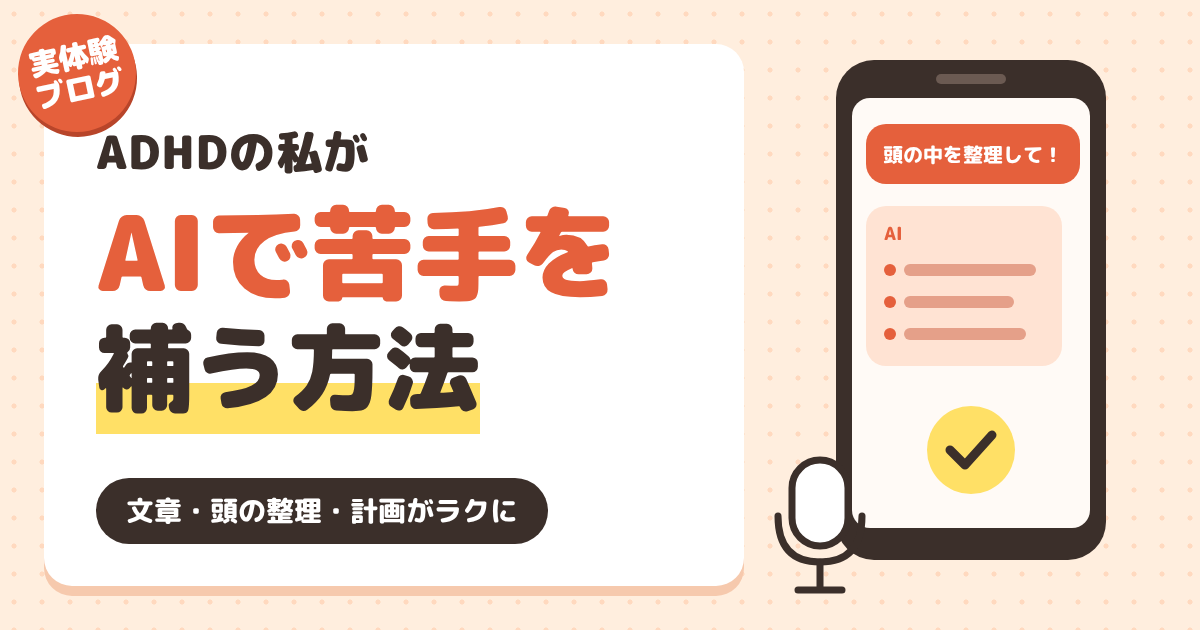
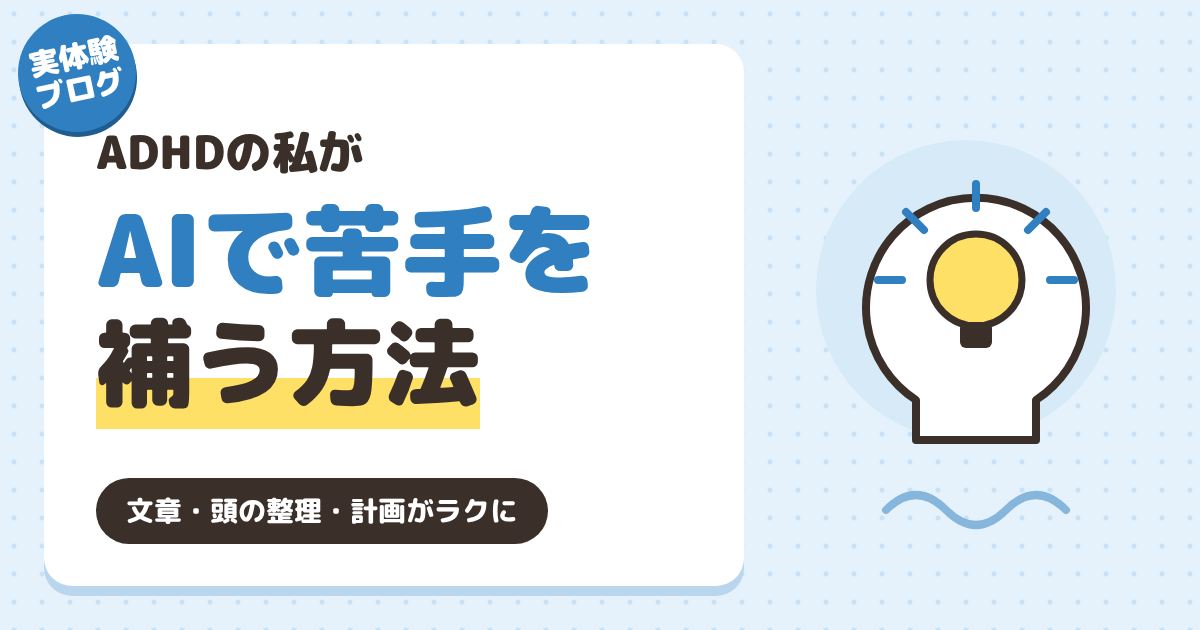
アイキャッチの共通テンプレート（カテゴリ色つき）を追加し、投稿317の画像を作り直し
Claude-Session: https://claude.ai/code/session_01AbwgezYxuzkhNMxoZh4PnK

diff --git a/ブログジャンル選定/eyecatch_tool/make_eyecatch.py b/ブログジャンル選定/eyecatch_tool/make_eyecatch.py
@@ -1,0 +1,87 @@
+"""ブログ共通デザインのアイキャッチ画像（1200x630）を作る。
+使い方: python3 make_eyecatch.py specs.json 作業フォルダ
+specs.json: [{"out": 出力png, "cat": love|mind|family|work|body|life, "l1": 上の一言, "l2": 大きい色文字, "l3": マーカー文字, "pill": 下の帯}]
+"""
+import json
+import subprocess
+import sys
+
+from PIL import Image
+
+CHROME = "/opt/pw-browsers/chromium-1194/chrome-linux/chrome"
+
+THEMES = {
+    "love":   dict(bg="#ffeede", dot="#ffd9bf", accent="#e5603c", shadow="#f6c9ad", badge_sh="#b8452a", soft="#ffe3d3", soft2="#e5a089"),
+    "mind":   dict(bg="#e6f2fb", dot="#c9e2f5", accent="#2f7fc1", shadow="#b9d6ee", badge_sh="#1f5d91", soft="#d6eaf8", soft2="#86b6dc"),
+    "family": dict(bg="#e9f5e6", dot="#cfe8c8", accent="#3f9a52", shadow="#bfdcb8", badge_sh="#2c7139", soft="#d8eed3", soft2="#8cc49a"),
+    "work":   dict(bg="#e8ebf3", dot="#cfd5e6", accent="#2c3e73", shadow="#c3cadf", badge_sh="#1c2a52", soft="#d9deee", soft2="#8e9cc6"),
+    "body":   dict(bg="#fdeef2", dot="#f8d6e0", accent="#d0547a", shadow="#f1c4d2", badge_sh="#a03a5a", soft="#fadbe5", soft2="#e59ab2"),
+    "life":   dict(bg="#fff6dc", dot="#fbe7a8", accent="#d9910b", shadow="#f2dca0", badge_sh="#a86d05", soft="#fdefc2", soft2="#e9c470"),
+}
+
+ILL = {
+    "love": '''<rect x="70" y="20" width="270" height="500" rx="38" fill="#3b2f2a"/><rect x="86" y="58" width="238" height="430" rx="18" fill="#fffaf6"/>
+<rect x="108" y="86" width="200" height="60" rx="20" fill="{accent}"/><rect x="128" y="166" width="180" height="60" rx="20" fill="{accent}"/>
+<rect x="102" y="262" width="104" height="52" rx="20" fill="{soft}"/><circle cx="130" cy="288" r="7" fill="{soft2}"/><circle cx="154" cy="288" r="7" fill="{soft2}"/><circle cx="178" cy="288" r="7" fill="{soft2}"/>
+<path d="M205 440 c-30 -20 -48 -36 -48 -58 a24 24 0 0 1 48 -6 a24 24 0 0 1 48 6 c0 22 -18 38 -48 58z" fill="{accent}"/>''',
+    "mind": '''<circle cx="200" cy="250" r="150" fill="{soft}"/>
+<path d="M150 400 v-40 a110 110 0 1 1 120 0 v40z" fill="#fff" stroke="#3b2f2a" stroke-width="8" stroke-linejoin="round"/>
+<circle cx="210" cy="240" r="46" fill="#ffe066" stroke="#3b2f2a" stroke-width="7"/><rect x="194" y="282" width="32" height="26" rx="6" fill="#3b2f2a"/>
+<path d="M210 168 v-24 M262 190 l18 -18 M158 190 l-18 -18 M284 240 h24 M136 240 h-24" stroke="{accent}" stroke-width="8" stroke-linecap="round"/>
+<path d="M120 470 q30 -30 60 0 t60 0 t60 0" fill="none" stroke="{soft2}" stroke-width="8" stroke-linecap="round"/>''',
+    "family": '''<circle cx="200" cy="290" r="160" fill="{soft}"/>
+<path d="M78 420 a52 76 0 0 1 104 0z" fill="{accent}" stroke="#3b2f2a" stroke-width="7"/><circle cx="130" cy="300" r="36" fill="#fff" stroke="#3b2f2a" stroke-width="7"/>
+<path d="M218 420 a52 76 0 0 1 104 0z" fill="{soft2}" stroke="#3b2f2a" stroke-width="7"/><circle cx="270" cy="300" r="36" fill="#fff" stroke="#3b2f2a" stroke-width="7"/>
+<path d="M160 420 a40 54 0 0 1 80 0z" fill="#ffe066" stroke="#3b2f2a" stroke-width="7"/><circle cx="200" cy="344" r="27" fill="#fff" stroke="#3b2f2a" stroke-width="7"/>
+<path d="M200 220 c-24 -16 -38 -29 -38 -46 a19 19 0 0 1 38 -4 a19 19 0 0 1 38 4 c0 17 -14 30 -38 46z" fill="{accent}"/>
+<path d="M50 424 h300" stroke="#3b2f2a" stroke-width="7" stroke-linecap="round"/>''',
+    "work": '''<circle cx="200" cy="260" r="160" fill="{soft}"/>
+<rect x="70" y="200" width="260" height="170" rx="16" fill="#3b2f2a"/><rect x="86" y="216" width="228" height="138" rx="8" fill="#fff"/>
+<path d="M40 380 h320 l-24 30 h-272z" fill="#6b5a52"/>
+<rect x="106" y="240" width="120" height="12" rx="6" fill="{soft2}"/><rect x="106" y="266" width="170" height="12" rx="6" fill="{soft2}"/><rect x="106" y="292" width="140" height="12" rx="6" fill="{soft2}"/>
+<rect x="230" y="70" width="120" height="150" rx="14" fill="#fff" stroke="#3b2f2a" stroke-width="7"/><rect x="262" y="58" width="56" height="24" rx="8" fill="{accent}"/>
+<path d="M252 118 l12 12 l22 -24 M252 168 l12 12 l22 -24" fill="none" stroke="{accent}" stroke-width="7" stroke-linecap="round" stroke-linejoin="round"/>
+<circle cx="110" cy="470" r="40" fill="#ffe066"/><path d="M90 470 l14 14 l26 -28" fill="none" stroke="#3b2f2a" stroke-width="8" stroke-linecap="round" stroke-linejoin="round"/>''',
+}
+ILL["body"] = ILL["mind"]
+ILL["life"] = ILL["family"]
+
+
+def html(cat, l1, l2, l3, pill, badge="実体験<br>ブログ"):
+    t = THEMES[cat]
+    ill = ILL[cat].format(**t)
+    return f'''<!doctype html><html><head><meta charset="utf-8">
+<link href="https://fonts.googleapis.com/css2?family=M+PLUS+Rounded+1c:wght@500;800;900&display=block" rel="stylesheet">
+<style>
+html,body{{margin:0;width:1200px;height:630px;overflow:hidden}}
+body{{font-family:"M PLUS Rounded 1c",sans-serif;position:relative;color:#3b2f2a;background-color:{t['bg']};background-image:radial-gradient({t['dot']} 2.5px,transparent 2.6px);background-size:28px 28px}}
+.card{{position:absolute;left:44px;top:44px;width:700px;height:542px;background:#fff;border-radius:28px;box-shadow:0 10px 0 {t['shadow']}}}
+.badge{{position:absolute;left:18px;top:14px;width:118px;height:118px;border-radius:50%;background:{t['accent']};color:#fff;font-weight:900;font-size:30px;display:flex;align-items:center;justify-content:center;transform:rotate(-12deg);box-shadow:0 5px 0 {t['badge_sh']};z-index:3;line-height:1.1;text-align:center}}
+.t{{position:absolute;left:96px;top:118px;font-weight:900;width:620px}}
+.l1{{font-size:46px;white-space:nowrap}}
+.l2{{font-size:100px;color:{t['accent']};line-height:1.15;margin-top:6px;white-space:nowrap}}
+.l3{{font-size:96px;line-height:1.15;white-space:nowrap}}
+.l3 span{{background:linear-gradient(transparent 62%,#ffe066 62%)}}
+.pill{{position:absolute;left:96px;top:478px;background:#3b2f2a;color:#fff;font-weight:800;font-size:28px;padding:12px 30px;border-radius:40px;white-space:nowrap}}
+.ill{{position:absolute;right:34px;top:40px}}
+</style></head><body><div class="card"></div><div class="badge">{badge}</div>
+<div class="t"><div class="l1">{l1}</div><div class="l2">{l2}</div><div class="l3"><span>{l3}</span></div></div>
+<div class="pill">{pill}</div><svg class="ill" width="400" height="560" viewBox="0 0 400 560">{ill}</svg></body></html>'''
+
+
+def render(spec, out, work):
+    h = f"{work}/tmp.html"
+    open(h, "w", encoding="utf-8").write(html(**spec))
+    subprocess.run([CHROME, "--headless=new", "--no-sandbox", "--disable-gpu", "--hide-scrollbars",
+                    "--window-size=1200,800", "--virtual-time-budget=8000",
+                    f"--screenshot={work}/tmp.png", "file://" + h], capture_output=True, timeout=90)
+    # ヘッドレスは表示領域が窓より短いので、高めに撮ってから切り出す
+    Image.open(f"{work}/tmp.png").crop((0, 0, 1200, 630)).convert("RGB").save(out)
+
+
+if __name__ == "__main__":
+    specs = json.load(open(sys.argv[1], encoding="utf-8"))
+    for s in specs:
+        out = s.pop("out")
+        render(s, out, sys.argv[2])
+        print("wrote", out)

diff --git a/ブログジャンル選定/作業メモ_ブログ改善.md b/ブログジャンル選定/作業メモ_ブログ改善.md
@@ -12,7 +12,7 @@
 | 10/22 | 投稿295・243の装飾をCocoon標準にそろえた／Sample Pageを非公開、Hello world!をゴミ箱へ／カテゴリを6つに再編して全37記事を振り分け（変更前は backup/categories_before_2026-10.json） |
 | 10/9〜 | 投稿243「シングルマザーとの恋愛が難しいと感じた理由」を改稿して反映（元の本文は backup/post_243_original.html） |
 | 11/1 | 新記事「マッチングアプリで2回目のデートに続かない…」を下書き作成（投稿311、カテゴリ：恋愛・婚活、アイキャッチ eyecatch_2kaime-tsuzukanai.png／メディアID 315。旧版314は未使用） |
-| 11/3 | 新記事「ADHDの私がAIで『苦手』を補っている方法」を下書き作成（投稿317、カテゴリ：ADHD・不安症、アイキャッチ eyecatch_ai-nigate.png／メディアID 316） |
+| 11/3 | 新記事「ADHDの私がAIで『苦手』を補っている方法」を下書き作成（投稿317、カテゴリ：ADHD・不安症、アイキャッチ eyecatch_ai-nigate.png／共通の型・ブルーに作り直し メディアID 319。旧316は未使用） |
 
 ※ 投稿295・243はどちらも「公開」状態のまま上書きしています。
 

diff --git a/ブログジャンル選定/CLAUDE.md b/ブログジャンル選定/CLAUDE.md
@@ -49,6 +49,10 @@
   - 比較や補足：白抜きボックス `<div class="blank-box bb-orange">…</div>`
   - 関連記事：記事URLだけを1行に書く（Cocoonが自動でブログカードにする）
   - 重要な一文：記事mdで `==文==`（黄色マーカー）、`**文**`（太字）
+- アイキャッチは共通の型で作る（2026-11 決定）：`eyecatch_tool/make_eyecatch.py`
+  - 1200x630。左上「実体験ブログ」バッジ、白カードに「小さな一言／大きな色文字／黄色マーカー文字／下の帯」、右にカテゴリ共通の絵
+  - カテゴリ色：恋愛・婚活=love(オレンジ)、ADHD・不安症=mind(ブルー)、家族=family(グリーン)、仕事=work(ネイビー)、からだ・美容=body(ピンク)、暮らし=life(イエロー)
+  - 全記事の作り直しは、記事ごとのキャッチコピー一覧を本人に確認してから行う
 
 ---
 バックアップ候補ジャンル：作業療法士が教える発達・小児の悩みブログ（家庭での関わり方に絞った切り口。サブジャンルとして継続検討可）
